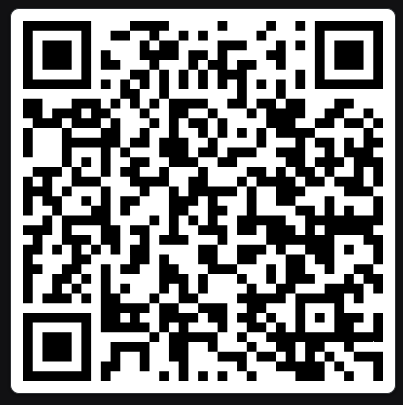
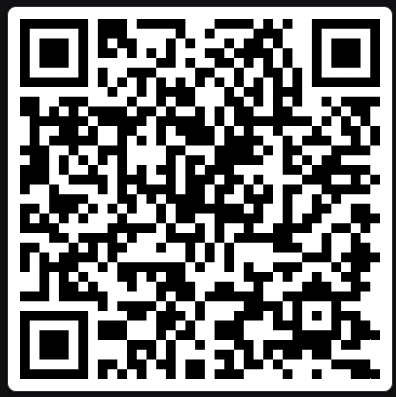
chore: update app download URL and QR code in README, emails, and portal screens to point to the new APK build

diff --git a/portal/src/app/api/approve-email/route.ts b/portal/src/app/api/approve-email/route.ts
@@ -67,7 +67,7 @@ Congratulations! Your registration request for "${societyName}" has been success
 Your unique Society Code is: ${societyCode}
 
 You can now log in to the Web Admin Portal to manage your society operations. To onboarding residents:
-1. Ask them to install the mobile app via the download link: https://expo.dev/accounts/aman1611/projects/Society_Sync/builds/e5ad992f-d0e5-499f-b19c-20f4430835b5
+1. Ask them to install the mobile app via the download link: https://expo.dev/accounts/aman1611/projects/society-sync/builds/739948e4-dbfc-40f2-b05f-59c1c53d3020
 2. Tell them to register using the Society Code: ${societyCode}
 3. Approve their profiles in the Roster.
 
@@ -87,7 +87,7 @@ Welcome to SocietySync!`;
           <p><strong>Next Steps for Onboarding Residents:</strong></p>
           <ol style="line-height: 1.6; padding-left: 20px;">
             <li style="margin-bottom: 15px;">Direct residents to install the mobile application via the build link: <br/>
-              <a href="https://expo.dev/accounts/aman1611/projects/Society_Sync/builds/e5ad992f-d0e5-499f-b19c-20f4430835b5" style="color: #00d4aa; text-decoration: none; font-weight: bold;">Download App Here</a>
+              <a href="https://expo.dev/accounts/aman1611/projects/society-sync/builds/739948e4-dbfc-40f2-b05f-59c1c53d3020" style="color: #00d4aa; text-decoration: none; font-weight: bold;">Download App Here</a>
               <div style="margin-top: 10px; text-align: center;">
                 <span style="font-size: 11px; color: #6b7280; display: block; margin-bottom: 5px;">Scan QR Code to Download:</span>
                 <img src="cid:app_qr_code" style="width: 140px; height: 140px; border: 1px solid #e5e7eb; border-radius: 6px; padding: 5px;" alt="App QR Code" />

diff --git a/portal/src/app/dashboard/PDFPosterButton.tsx b/portal/src/app/dashboard/PDFPosterButton.tsx
@@ -125,7 +125,7 @@ const PosterDocument = ({ societyName, societyCode }: { societyName: string; soc
         <View style={pdfStyles.qrBox}>
           <Text style={pdfStyles.qrTitle}>1. Scan to Install App</Text>
           <Image 
-            src={`https://api.qrserver.com/v1/create-qr-code/?size=150x150&data=${encodeURIComponent('https://expo.dev/accounts/aman1611/projects/Society_Sync/builds/e5ad992f-d0e5-499f-b19c-20f4430835b5')}`} 
+            src={`https://api.qrserver.com/v1/create-qr-code/?size=150x150&data=${encodeURIComponent('https://expo.dev/accounts/aman1611/projects/society-sync/builds/739948e4-dbfc-40f2-b05f-59c1c53d3020')}`} 
             style={pdfStyles.qrImage} 
           />
           <Text style={pdfStyles.qrDesc}>Download the official SocietySync app build onto your device.</Text>

diff --git a/portal/src/app/register/success/page.tsx b/portal/src/app/register/success/page.tsx
@@ -58,7 +58,7 @@ export default function RegisterSuccess() {
             Scan the QR code with your mobile camera to load in Expo Go or download standalone app.
           </p>
           <a
-            href="https://expo.dev/accounts/aman1611/projects/Society_Sync/builds/e5ad992f-d0e5-499f-b19c-20f4430835b5"
+            href="https://expo.dev/accounts/aman1611/projects/society-sync/builds/739948e4-dbfc-40f2-b05f-59c1c53d3020"
             target="_blank"
             rel="noopener noreferrer"
             className="inline-flex py-2.5 px-5 bg-[#00d4aa] text-zinc-950 font-bold text-xs rounded-lg hover:bg-[#00b390] transition-all items-center gap-1.5 glow-hover"

diff --git a/README.md b/README.md
@@ -46,7 +46,7 @@
 
 <div align="center">
 
-### 👉 [**⬇ Download the Android Build (Expo)**](https://expo.dev/accounts/aman1611/projects/Society_Sync/builds/b8cfa267-de50-43d7-979b-2ac99bcd0c96) 👈
+### 👉 [**⬇ Download the Android Build (Expo)**](https://expo.dev/accounts/aman1611/projects/society-sync/builds/739948e4-dbfc-40f2-b05f-59c1c53d3020) 👈
 
 Click the link above to open the Expo build page, then tap **"Download build"** to get the standalone `.apk` directly — or scan the QR with **Expo Go** on your Android device.
 
